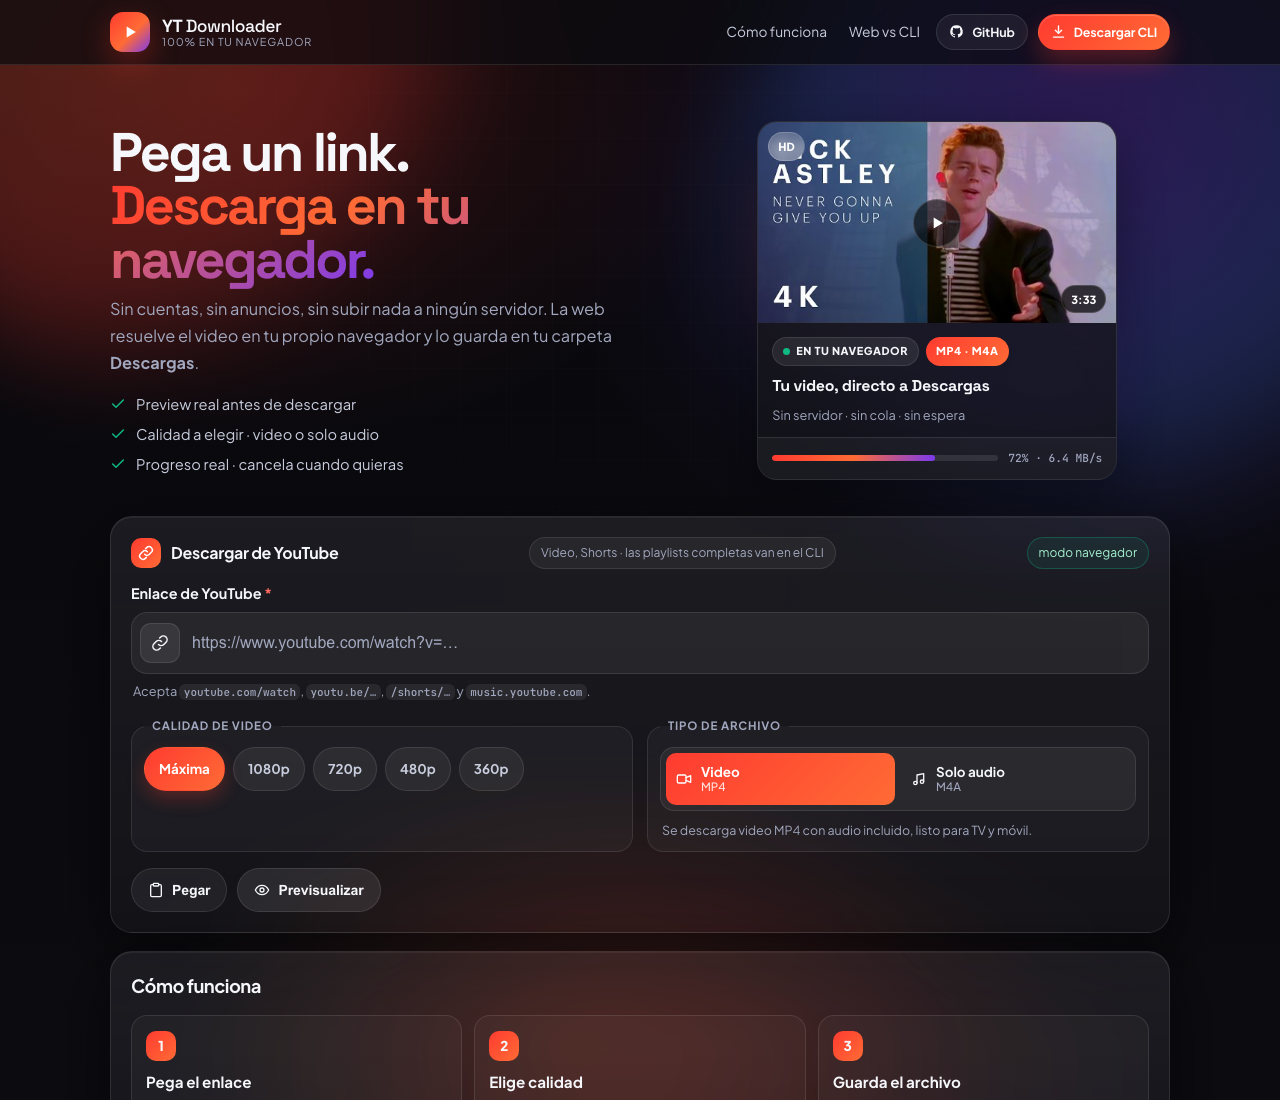
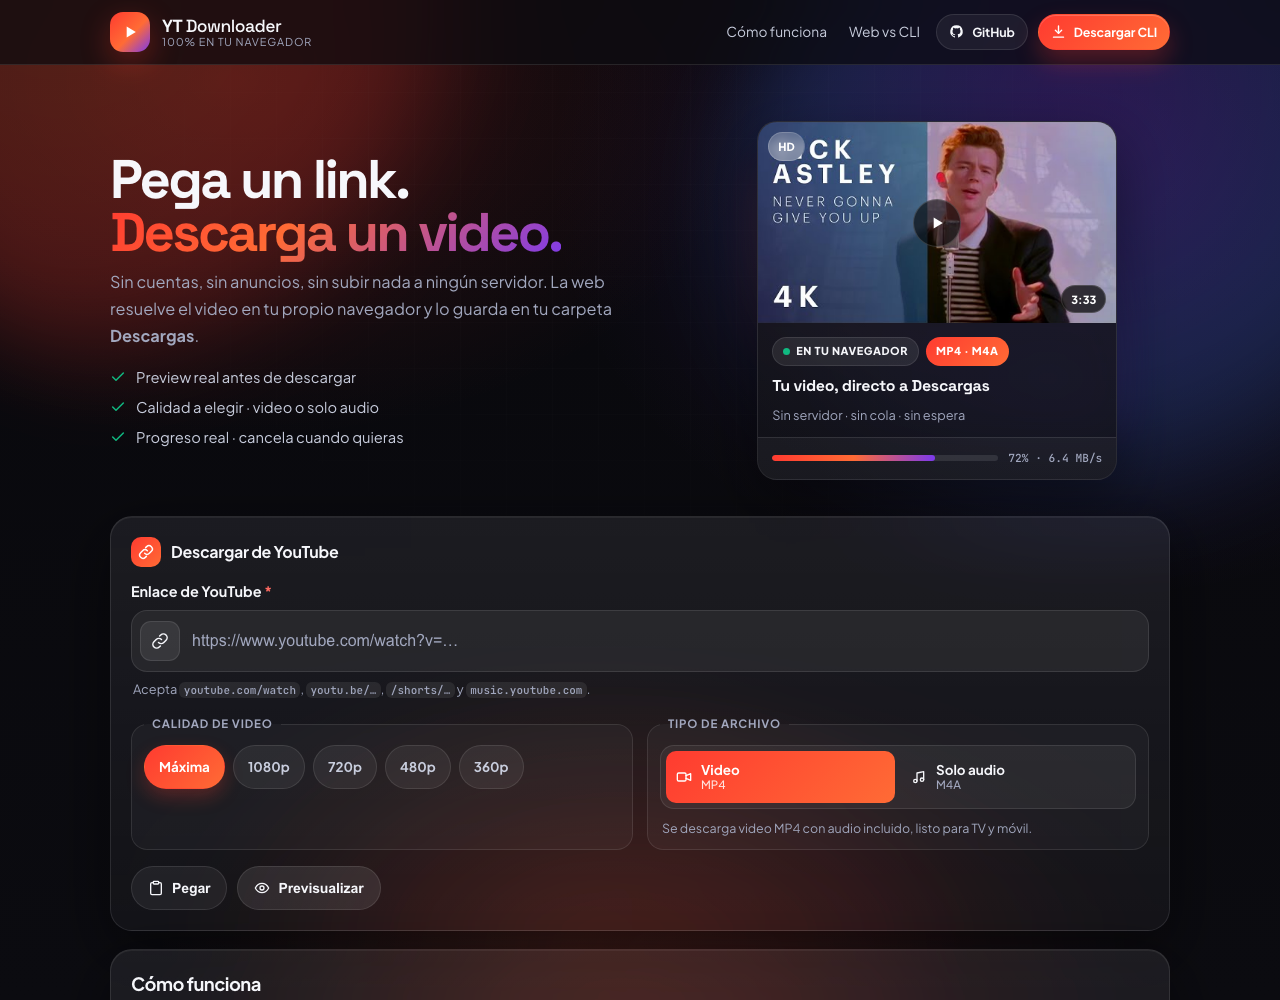
fix(web): sin recursión en doDownload; error discrimina video vs proveedores; hero y pills minimal

diff --git a/web/app.js b/web/app.js
@@ -191,7 +191,6 @@ let aborter = null;
 let localServer = false;
 let serverJobId = null;
 let pollTimer = null;
-const modePill = $('#modePill');
 
 async function detectLocalServer() {
   if (!/^https?:$/.test(location.protocol)) return;
@@ -204,13 +203,10 @@ async function detectLocalServer() {
       const data = await res.json().catch(() => ({}));
       if (data && data.ok !== false) {
         localServer = true;
-        modePill.textContent = 'modo local · máxima calidad';
-        modePill.classList.add('local');
         return;
       }
     }
   } catch { /* GitHub Pages: sin servidor, modo navegador */ }
-  modePill.textContent = 'modo navegador';
 }
 
 function selectedQuality() {
@@ -496,11 +492,14 @@ async function doPreview(event) {
     toast('Preview listo ✓');
   } catch (e) {
     console.error(e);
-    // Fallback: al menos mostrar título vía oEmbed
+    // oEmbed (YouTube directo) discrimina: si responde, el video EXISTE
+    // y el fallo es de los resolvedores públicos; si no, el video no existe.
+    let videoExists = false;
     try {
       const pageUrl = `https://www.youtube.com/watch?v=${videoId}`;
       const oe = await previewOEmbed(pageUrl);
       if (oe?.title) {
+        videoExists = true;
         pvThumb.src = `https://i.ytimg.com/vi/${videoId}/hqdefault.jpg`;
         pvTitle.textContent = oe.title;
         pvChannel.textContent = oe.author_name || 'YouTube';
@@ -510,11 +509,11 @@ async function doPreview(event) {
         previewCard.hidden = false;
       }
     } catch { /* noop */ }
-    if (e?.providerDown) {
-      showAlert('Los resolvedores públicos están caídos ahora mismo (les pasa a menudo: son instancias gratuitas). Tu video existe; es la red la que falla. Alternativas de 1 clic abajo.');
+    if (e?.providerDown && videoExists) {
+      showAlert('Tu video existe, pero los resolvedores públicos están caídos ahora mismo (son instancias gratuitas y les pasa a menudo). Alternativas de 1 clic abajo.');
       showNetFallback(`https://www.youtube.com/watch?v=${videoId}`);
     } else {
-      showAlert(`No se pudo resolver ese video (${e.message || e}). Puede ser privado, con restricción de edad o un fallo temporal. Reintenta o usa el CLI.`);
+      showAlert(`No se pudo resolver ese video (${e.message || e}). Puede ser privado, con restricción de edad o que ya no exista.`);
     }
   } finally {
     btnPreview.disabled = false;
@@ -535,7 +534,7 @@ function setProgress(pct, downloaded, total, speedBps, etaSec) {
   progEta.textContent = Number.isFinite(etaSec) && etaSec >= 0 ? `quedan ~${Math.ceil(etaSec)}s` : '—';
 }
 
-async function doDownload() {
+async function doDownloadBrowser() {
   if (!current?.picked) { showAlert('Primero previsualiza el video.'); return; }
   hideAlert();
   aborter?.abort();
@@ -749,10 +748,9 @@ async function doServerPreview(raw) {
   }
 }
 
-const _doDownloadBrowser = doDownload;
 async function doDownload(evt) {
   if (localServer && current?.serverInfo) return doServerDownload();
-  return _doDownloadBrowser(evt);
+  return doDownloadBrowser(evt);
 }
 
 async function doServerDownload() {

diff --git a/web/style.css b/web/style.css
@@ -114,8 +114,6 @@ code{font-family:"JetBrains Mono",ui-monospace,monospace;font-size:.86em;backgro
 .card-head h2{display:flex;align-items:center;gap:10px;margin:0;font-size:1rem;letter-spacing:-.02em}
 .h-icon{width:30px;height:30px;display:grid;place-items:center;border-radius:10px;background:linear-gradient(135deg,var(--accent),var(--accent-2));color:#fff}
 .hint{font-size:.75rem;color:var(--muted);border:1px solid var(--line);padding:6px 11px;border-radius:999px;background:rgba(255,255,255,.05)}
-.hint.mode{border-color:rgba(16,185,129,.3);color:#a7f3d0;background:rgba(16,185,129,.08)}
-.hint.mode.local{border-color:rgba(125,211,252,.35);color:#bae6fd;background:rgba(125,211,252,.08)}
 .field-label{display:block;font-weight:700;font-size:.9rem;margin:0 0 8px}
 .field-label span{color:var(--danger)}
 .field{position:relative;display:flex;align-items:center;gap:10px;padding:8px 8px 8px 8px;background:rgba(255,255,255,.06);border-radius:16px;border:1px solid var(--line)}

diff --git a/web/index.html b/web/index.html
@@ -71,7 +71,7 @@
     <!-- HERO -->
     <section class="hero" aria-labelledby="hero-title">
       <div class="hero-copy">
-        <h1 id="hero-title">Pega un link.<br /><span class="grad">Descarga en tu navegador.</span></h1>
+        <h1 id="hero-title">Pega un link.<br /><span class="grad">Descarga un video.</span></h1>
         <p class="lead">Sin cuentas, sin anuncios, sin subir nada a ningún servidor. La web resuelve el video en tu propio navegador y lo guarda en tu carpeta <strong>Descargas</strong>.</p>
         <ul class="hero-points">
           <li>
@@ -123,8 +123,6 @@
             </span>
             Descargar de YouTube
           </h2>
-          <span class="hint">Video, Shorts · las playlists completas van en el CLI</span>
-          <span class="hint mode" id="modePill" role="status">modo navegador</span>
         </div>
 
         <label class="field-label" for="urlInput">Enlace de YouTube <span aria-hidden="true">*</span></label>
